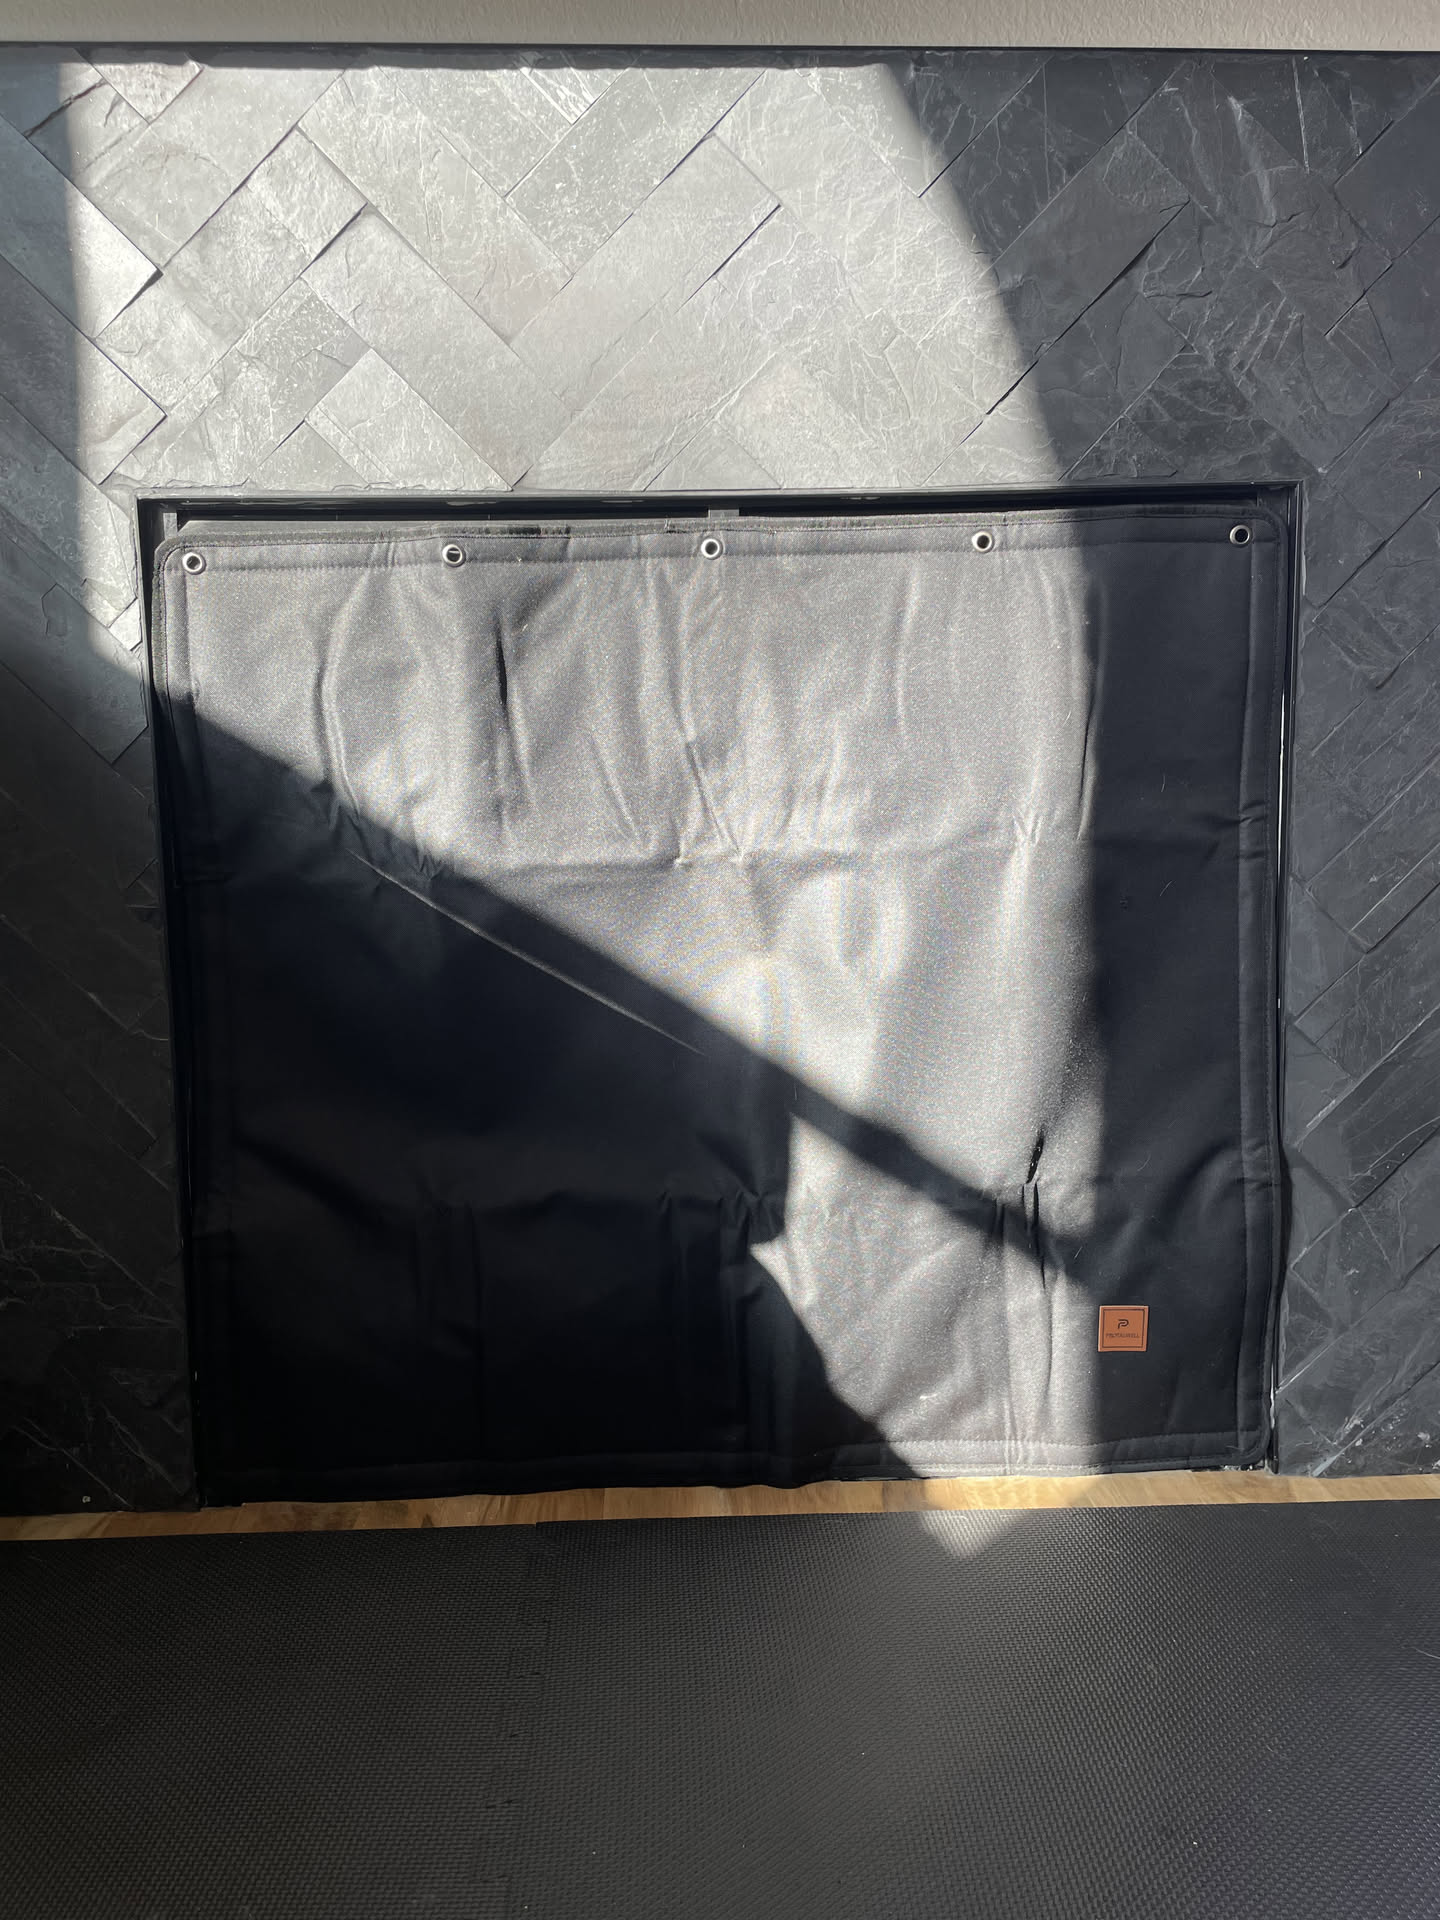
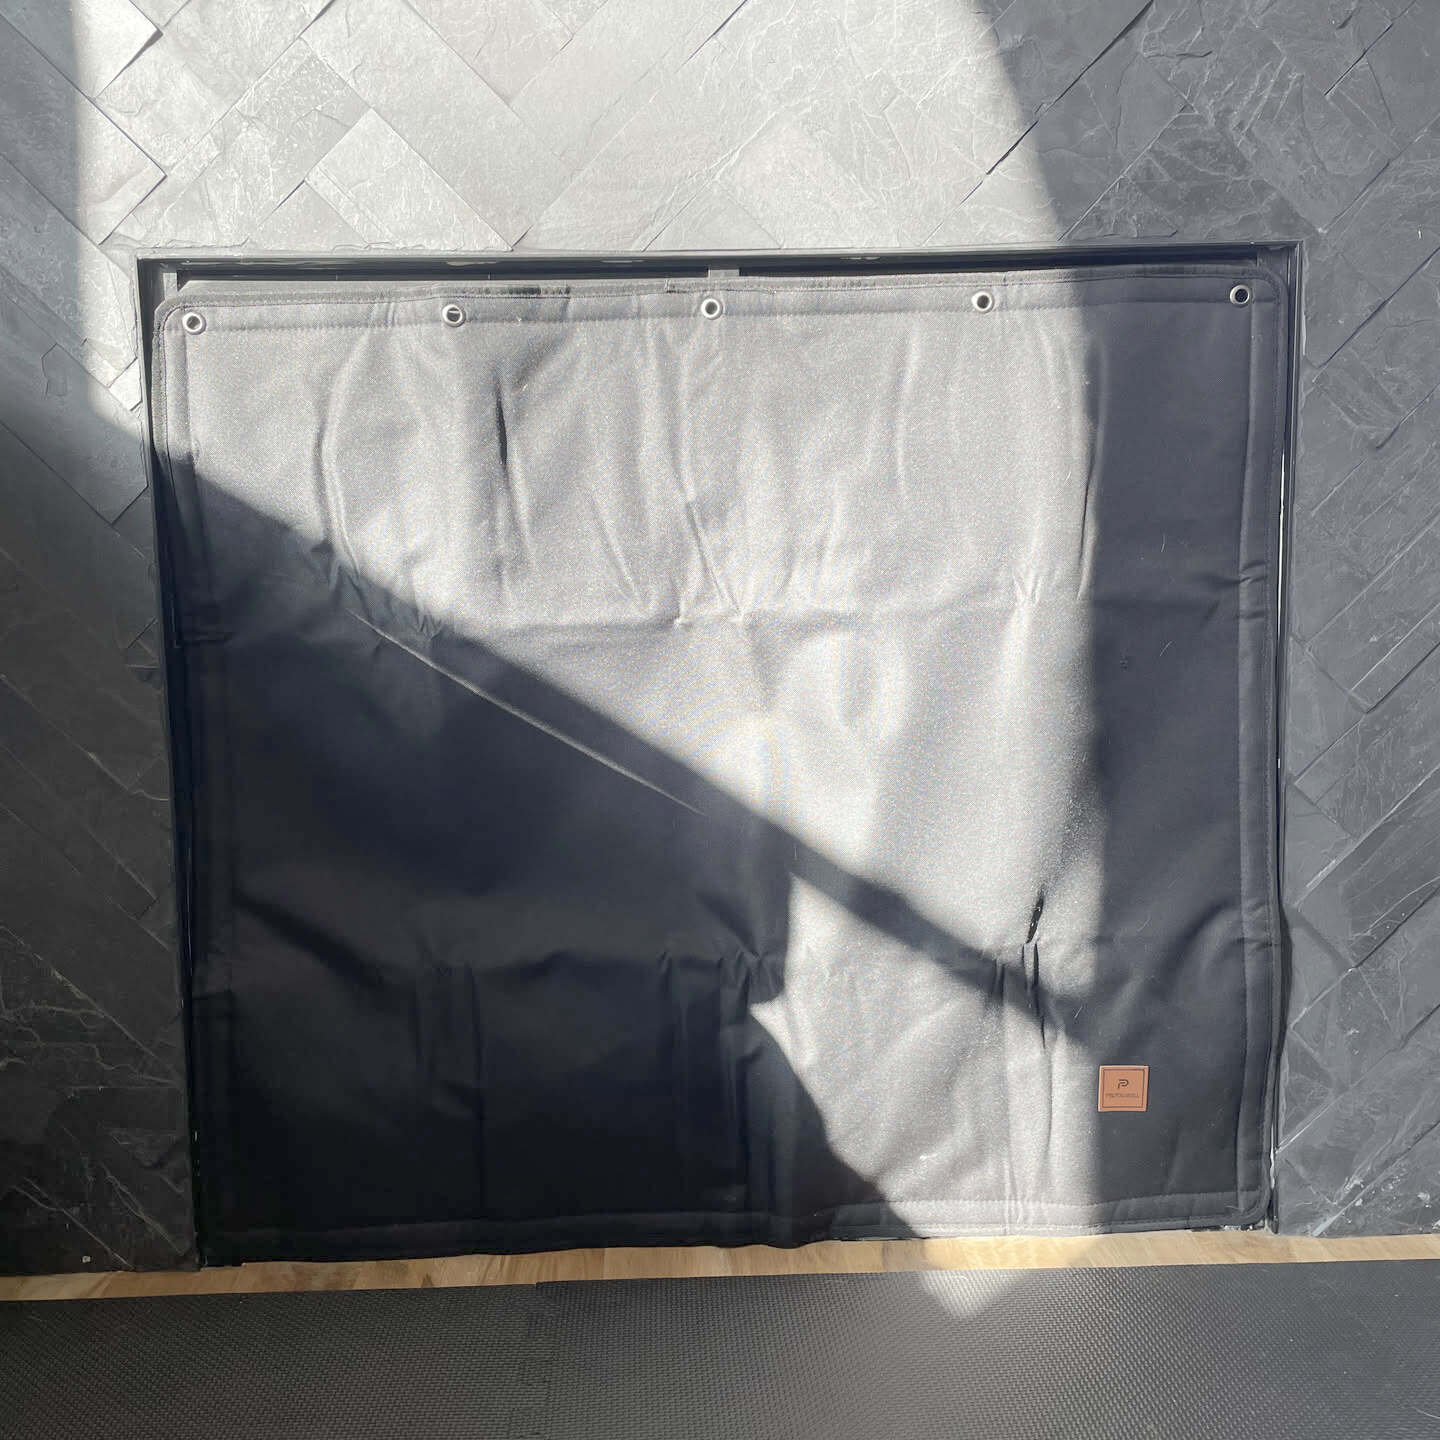
Remove original images and rename processed images

diff --git a/src/posts/containing-a-monster.md b/src/posts/containing-a-monster.md
@@ -18,32 +18,32 @@ Toddler-proofing your home is really just acknowledging that you now share livin
 
 ## THE PERIMETER
 [Retractable Safety Gate](https://amzn.to/3NQILD2){.product-link target=_blank}  
-![Retractable safety gate](/img/containing-a-monster-fence-processed.jpeg){.product sizes="150px"}
+![Retractable safety gate](/img/containing-a-monster-fence.jpeg){.product sizes="150px"}
 The first line of defense. This thing retracts like a window shade when you're not using it, which means no permanent eyesore blocking your hallway. Stretches up to 55 inches wide. Installs with adhesive, so no drilling required. The mesh won't give them footholds for climbing, though that won't stop them from trying. Install it at the stairs, in doorways, anywhere you need to establish that certain parts of the house are currently off-limits. It's not permanent. Nothing with toddlers is. But it holds long enough for you to finish whatever you were doing before they discovered a new way to endanger themselves.
 
 ## THE CABINETS
 [Safety Strap Locks](https://amzn.to/4ky4axb){.product-link target=_blank}  
-![Safety strap locks](/img/containing-a-monster-strap-processed.jpeg){.product sizes="150px"}
+![Safety strap locks](/img/containing-a-monster-strap.jpeg){.product sizes="150px"}
 Stick-on straps that operate smoother than you'd expect. They go on drawers, cabinets, wherever you keep things you'd rather not explain to a poison control operator. The 3M adhesive actually works, which is rare for this kind of thing. Toddlers don't have the grip strength or the patience to defeat them, at least not for a while. By the time they figure it out, they're old enough that you've already moved on to worrying elsewhere. When you don't need them anymore, they come off without taking the paint with them.
 
 ## THE FURNITURE
 [Anti-Tip Furniture Anchors](https://amzn.to/4kc8JwV){.product-link target=_blank}  
-![Anti-tip furniture anchors](/img/containing-a-monster-anchor-processed.jpeg){.product sizes="150px"}
+![Anti-tip furniture anchors](/img/containing-a-monster-anchor.jpeg){.product sizes="150px"}
 Toddlers climb. It's not a phase. It's their primary method of exploration and your primary source of anxiety. These are heavy-duty stainless steel straps with braided cable that anchor dressers, bookshelves, anything tall enough to become a tragedy if it tips. Not the flimsy plastic garbage. Actual metal. Rated for 400 pounds, which is more than enough to handle your kid's enthusiasm for vertical surfaces. The screw-closure design lets you detach them when you need to move furniture or finally clean behind that dresser you've been avoiding. Ten minutes of installation now saves you from a nightmare scenario later.
 
 ## THE OUTLETS
 [Self-Closing Outlet Covers](https://amzn.to/4qhxBVg){.product-link target=_blank}  
-![Self-closing outlet covers](/img/containing-a-monster-outlet-processed.jpeg){.product sizes="150px"}
+![Self-closing outlet covers](/img/containing-a-monster-outlet.jpeg){.product sizes="150px"}
 Forget those little plastic caps. You'll lose them. You'll forget to put them back in. Your kid will find one under the couch and try to eat it. These replace the entire wall plate with a self-closing cover. Plug something in, the cover slides open. Unplug it, the cover slides shut. Automatic. Takes a screwdriver and about two minutes per outlet to install. They only work with standard center-screw outlets, so check before you order. If your outlet has one screw in the middle, you're fine. Two screws on the top and bottom means you need the other version.
 
 ## THE DOORS
 [Door Knob Covers](https://amzn.to/4qcp4mk){.product-link target=_blank}  
-![Door knob covers](/img/containing-a-monster-door-knob-processed.jpeg){.product sizes="150px"}
+![Door knob covers](/img/containing-a-monster-door-knob.jpeg){.product sizes="150px"}
 These turn door knobs into puzzles. The cover spins freely unless you squeeze the sides just right. Adults can open them without thinking. Toddlers cannot. This keeps them out of bathrooms, closets, garages, anywhere you've stashed the things that make parenting harder. The downside is you'll occasionally forget you installed them and struggle with your own doors like an idiot. A small price for containment.
 
 ## THE FIREPLACE
 [Magnetic Fireplace Cover](https://amzn.to/4bzv70Y){.product-link target=_blank}  
-![Magnetic fireplace cover](/img/containing-a-monster-fireplace-processed.jpeg){.product sizes="150px"}
+![Magnetic fireplace cover](/img/containing-a-monster-fireplace.jpeg){.product sizes="150px"}
 If you have a decorative fireplace, this is the move. A large magnetic cover that sticks to the metal frame, blocking access to the opening. It looks unassuming. It doesn't scream "baby-proofed house." It just sits there, doing its job, keeping tiny hands away from soot and sharp edges. My kid never messed with it. Maybe because it looks boring. Maybe because magnets are strong. Either way, it works. If you're looking for something more permanent, glass doors are an option, but this gets you 90% of the way there for a fraction of the cost.
 
 ## THE PHILOSOPHY
